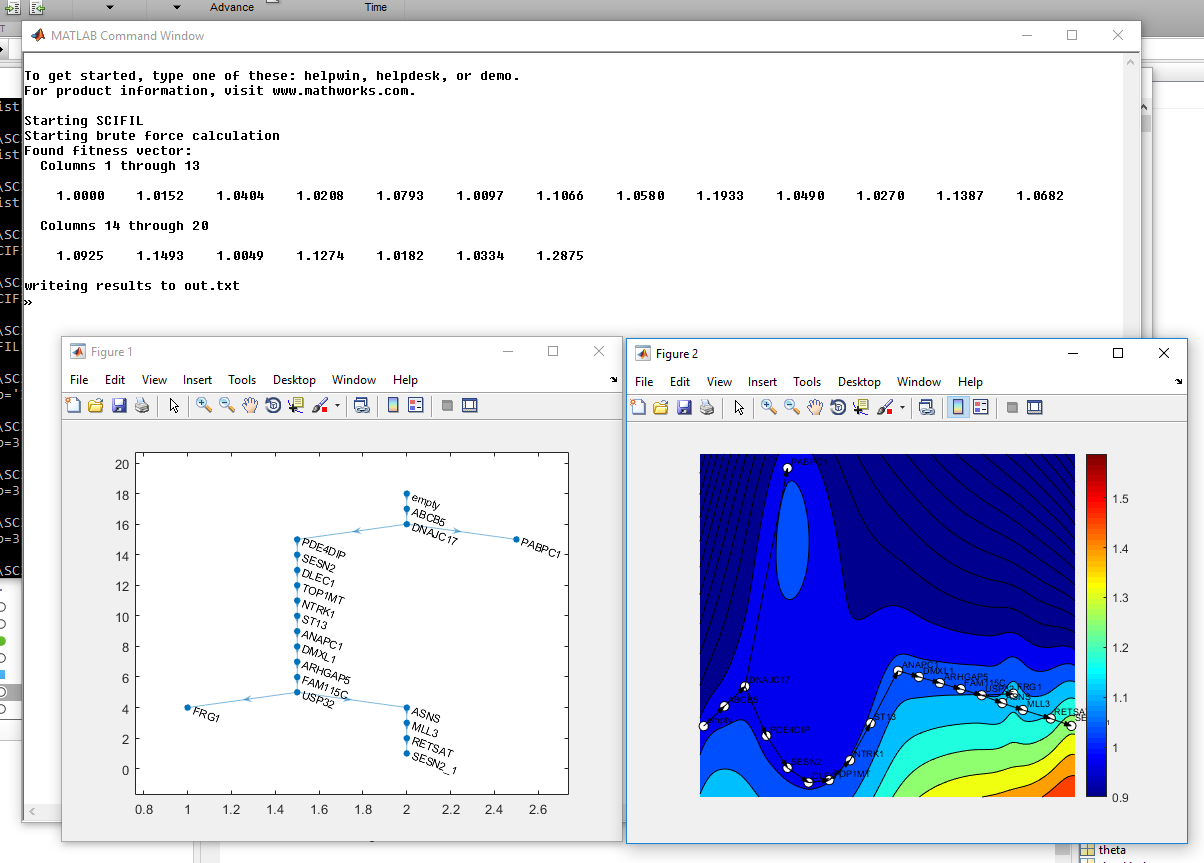
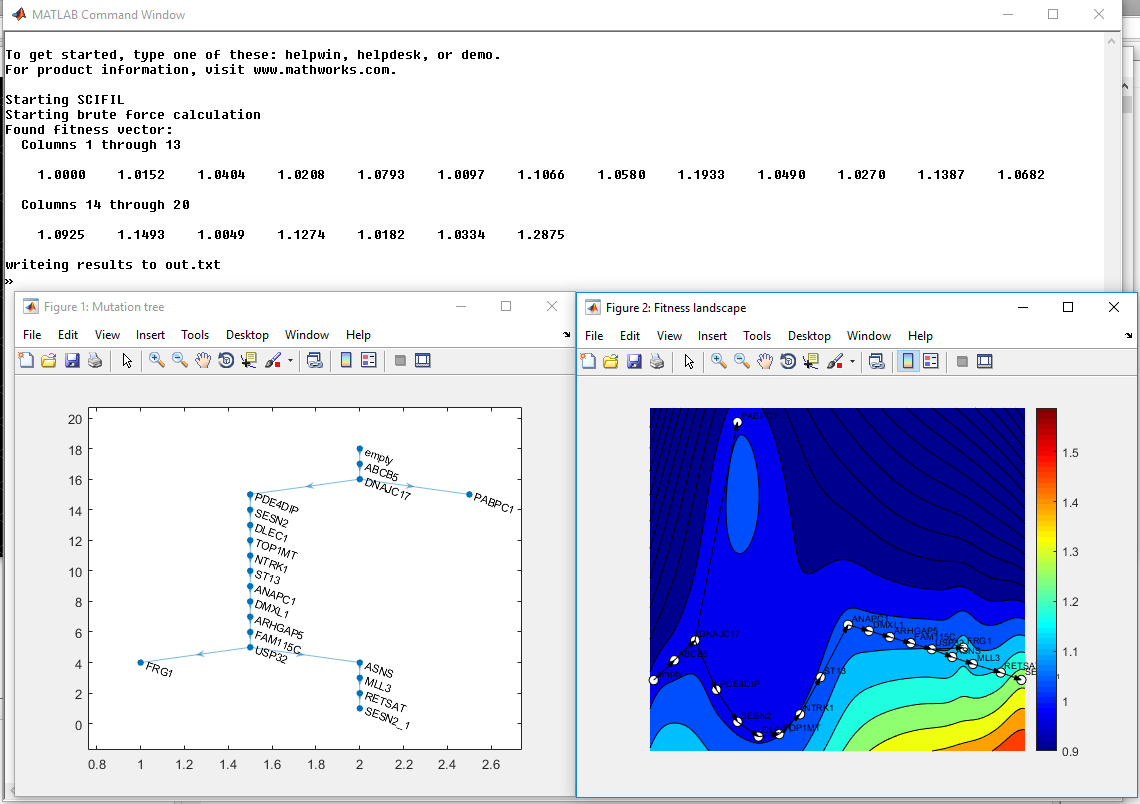
README

diff --git a/SCIFIL.m b/SCIFIL.m
@@ -8,20 +8,18 @@ if (~exist('output', 'var'))
     output = 'out.txt';
 end
 
-
-
-M_noise = dlmread(matrix_file); % matrix_file = 'data/scite/dataHou18.csv'
-
-M_noise = M_noise';
-
-n = size(M_noise,1);
-m = size(M_noise,2);
+% M_noise = dlmread(matrix_file); % matrix_file = 'data/dataHou18.csv'
+% 
+% M_noise = M_noise';
+% 
+% n = size(M_noise,1);
+% m = size(M_noise,2);
 
 % number of repeated mutation
 
 
 if (exist('names_file', 'var'))
-    fid = fopen( names_file); % 'data/scite/dataHou18names.txt'
+    fid = fopen( names_file); % 'data/dataHou18names.txt'
     names = textscan(fid,'%s');
     names = names{1,1};
     names = [{'empty'}; names];
@@ -46,7 +44,7 @@ m = m+noRep;
 
 
 
-AMscite = scite2Tree(gv_file,n,m); % gv_file = 'data/scite/dataHou18_map0.gv'
+AMscite = scite2Tree(gv_file,n,m); % gv_file = 'data/dataHou18_map0.gv'
 stree = AMInfScite2STree(AMscite(1:(m+1),1:(m+1)));
 
 cellCounts = zeros(m+1,1);
@@ -119,7 +117,7 @@ for i = 1:n
     labelsScite{m+1+i} = ['c' int2str(i)];
 end
 Gscite = digraph(AMscite(1:(m+1),1:(m+1)));
-figure
+figure('Name','Mutation tree')
 plot(Gscite,'NodeLabel',labelsScite(1:(m+1)));
 
 AM_stree = AMscite(1:(m+1),1:(m+1));
@@ -159,7 +157,9 @@ lim2y = max(DataMDS(:,2)) + coeff1;
 vq = griddata(DataMDS(:,1),DataMDS(:,2),fitNodes',xq,yq,'v4');
 color = [0 0 0];
 colors = ones(nHapl,3);
-figure
+
+figure('Name','Fitness landscape')
+
 contourf(xq,yq,vq,20)
 axis off;
 colormap jet

diff --git a/README.md b/README.md
@@ -8,8 +8,9 @@ single cell sequencing data.
 It takes single cell data, mutation tree and estimates finesses of all mutations.
 
 ## Parameters
-- ``matrix_file`` - path to file with cells mutation profile
-- ``gv_file``  - path to file with mutation tree
+- ``n`` - number of haplotypes
+- ``m`` - number of mutation (not counting repeated mutation)
+- ``gv_file``  - path to file with mutation tree in GraphcViz format
 - ``names_file`` (_optional_) - name of file with mutation names
 - ``output`` (_optional_) - path for output file. Default "out.txt"
 - ``method`` (_optional_) - method to use for fitness calculation(default "heuristic"):
@@ -22,19 +23,16 @@ It takes single cell data, mutation tree and estimates finesses of all mutations
 
 In console type and change to actual parameters:
 
-``matlab -nodisplay -nodesktop -r "matrix_file='<input_mutations_csv>';gv_file='<input_gv_tree>';output='<output_file>';method='<method_name>';nRep=<number>;theta=<number>;SCIFIL"``
+``matlab -nodisplay -nodesktop -r "n=<number>;m=<number>;gv_file='<input_gv_tree>';output='<output_file>';method='<method_name>';nRep=<number>;theta=<number>;SCIFIL"``
 
 Example:
 
-``matlab -nodisplay -nodesktop -r "matrix_file='data/scite/dataHou18.csv';gv_file='data/scite/dataHou18_map0.gv';names_file='data/scite/dataHou18names.txt';nRep=3;SCIFIL"``
+``matlab -nodisplay -nodesktop -r "gv_file='data/dataHou18_map0.gv';names_file='data/dataHou18names.txt';nRep=3;n=58;m=18;SCIFIL"``
 
 Execution result:
 ![Example](img/example.PNG)
-### Input files
-There are two input files:
-- csv with mutations where each row represents mutation, each column represents cell
-- gv file with mutation tree
-Examples can be found in data/scite/ folder
+
+There will be two figures. First represent mutation tree, second fitness landscape.
 
 
 ### Output file
